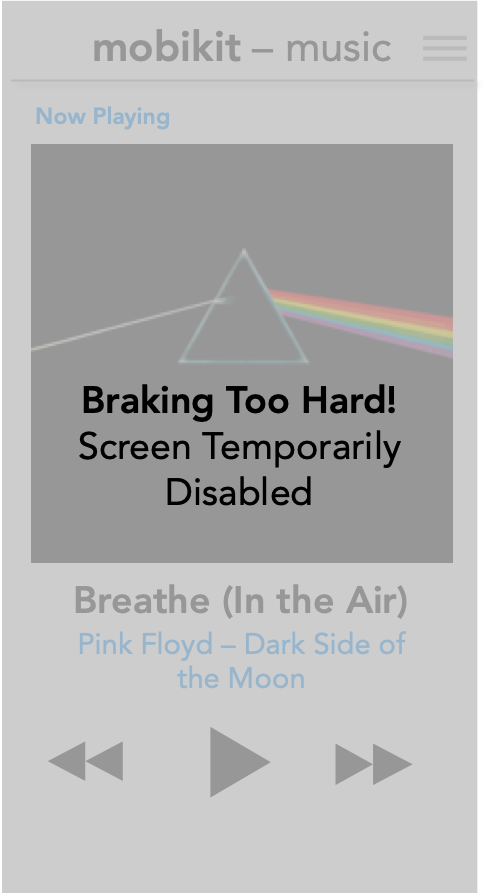
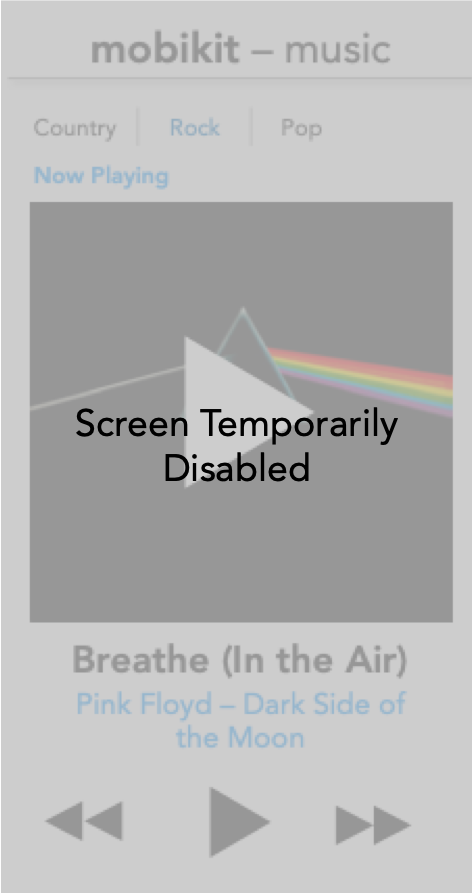
final for demo

diff --git a/src/App.js b/src/App.js
@@ -161,9 +161,9 @@ class App extends Component {
   read_image(accel){
     // var hard_braking = -5.3936575
     // var hard_speed = 2.5
-    var hard_braking = -0.2
+    var hard_braking = 4
     var hard_speed = 1.5
-    if (accel<=hard_braking) {
+    if (accel>=hard_braking) {
       return states[2]
     }
     else if (accel>=hard_speed){
@@ -181,8 +181,7 @@ class App extends Component {
       zIndex: "10"
     }
     var button_style = {
-      color: "grey",
-      fontColor: "white"
+      fontSize: "8px"
     }
     if (!this.state.show_debugger) {
       style = {
@@ -194,17 +193,17 @@ class App extends Component {
 
         <meta name = "apple-mobile-web-app-capable" content="yes" />
           <div className="App">
-            <header className="App-header">
+            {/* <header className="App-header"> */}
               {/* <img src ={logo} className = "App-logo"></img> */}
               <div className = "container">
-                <button type = "Button" onClick = {this.handleDebugger} className = "btn" >{this.state.button_name}</button>
+                <button type = "Button" onClick = {this.handleDebugger} className = "btn" style={button_style}>{this.state.button_name}</button>
                 <img src={this.state.background_image} className="Background-Image" alt="logo" style = {image_style}/>
                 <div className = "Debugger" style = {style}>
                   {this.debugger}
                 </div>
               </div>
               
-            </header>
+            {/* </header> */}
           </div>
       </div>
       

diff --git a/src/App.css b/src/App.css
@@ -9,14 +9,14 @@
 }
 
 .App-header {
-  background-color: black;
+  background-color: white;
   min-height: 100vh;
   display: flex;
   flex-direction: column;
   align-items: center;
   justify-content: center;
   font-size: calc(10px + 2vmin);
-  color: white;
+  color: black;
 }
 
 .App-link {
@@ -33,7 +33,7 @@
   width: 100%;
   overflow: hidden;
   border: 0px;
-  z-index: -1;
+  z-index: 1;
 }
 .Debugger {
   z-index: 2;
@@ -44,8 +44,8 @@
   text-align: left;
   display: inline;  
   font-size: 14px;
-  background: black;
-  color: white
+  background: white;
+  color: black
 }
 .container {
   position: relative;
@@ -54,9 +54,9 @@
   position: absolute;
   top: 1%;
   left: 1%;
-  background-color: none;
+  background-color: transparent;
   color: #61dafb;
-  font-size: 5px;
+  font-size: 0.2em;
   padding: 1px 1px;
   border-style: solid;
   border-color: grey;
